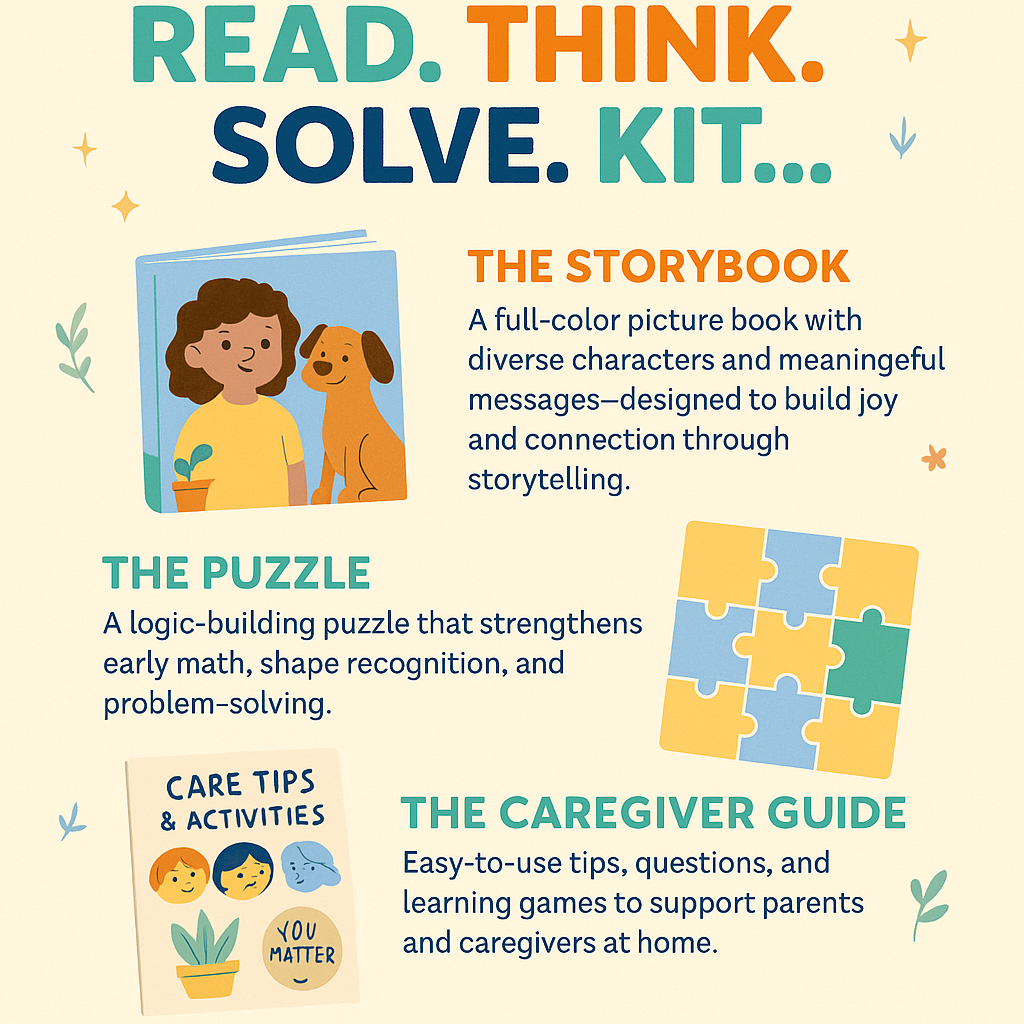
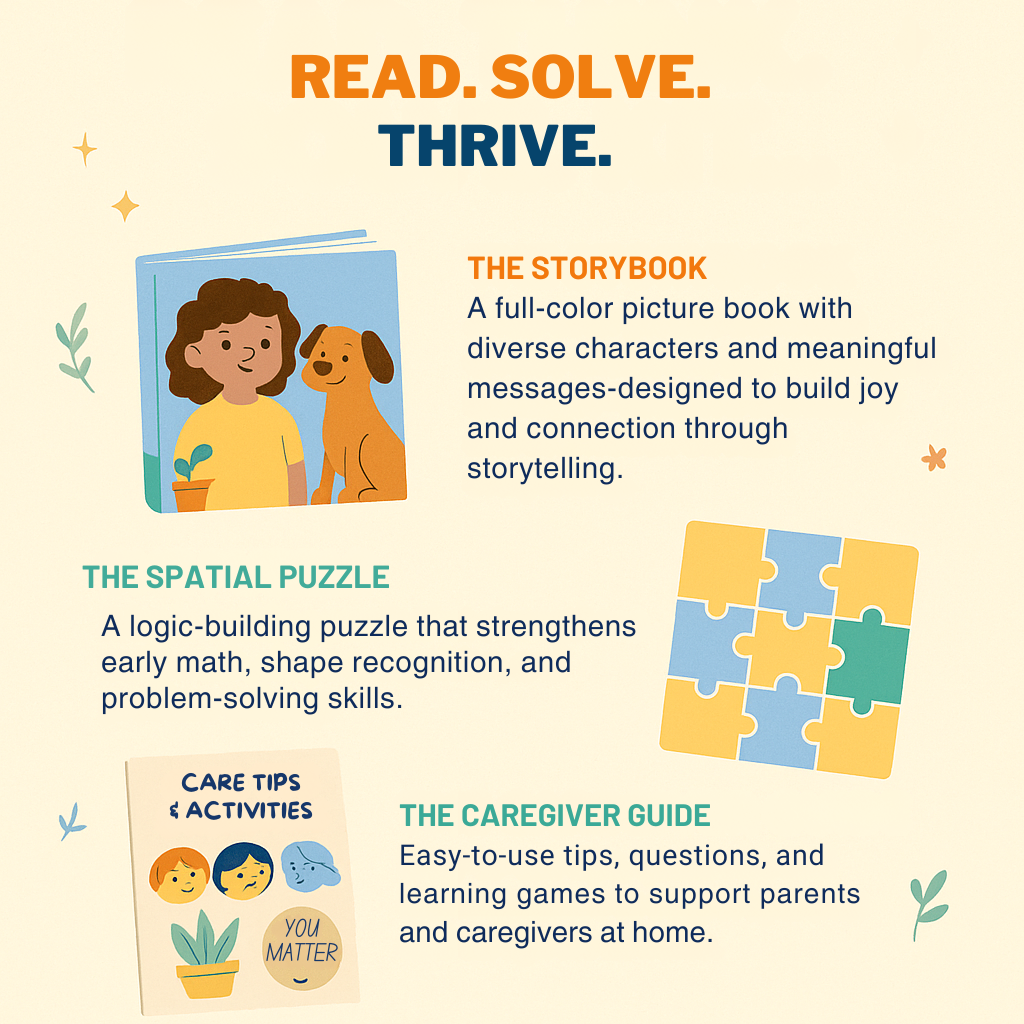
Update to images and text due to typos and update to subscription formatting

diff --git a/initiatives.html b/initiatives.html
@@ -35,11 +35,14 @@
     <div class="container">
         <h1>Current Initiatives</h1>
     
-            <p style="text-align: center;">Introducing: <em>Read. Think. Solve.</em>, an early literacy and critical thinking tool designed to close education gaps and encourage children to fall in love with reading through imagination, problem-solving and play.</p>
+            <p style="text-align: center;">Introducing: <em>Read.Solve.Thrive.</em>, an early literacy and critical thinking tool designed to close education gaps and encourage children to fall in love with reading through imagination, problem-solving and play.</p>
             <p style="text-align: center;">Each kit includes a full-color book featuring an inspiring and engaging story; a puzzle to strenghten and sharpen early math, shape recognition and problem-solving skills; and a companion guide to encourage parents and caregivers to join in and track their reader's progress.</p>
             <a href="donate.html">
-                <img src="RST-kit-image.png" alt="graphic describing the Read. Think. Solve. program, featuring an image of an example book, puzzle and caregiver guide" class="kit-image">
+                <img src="RST-kit-image.png" alt="graphic describing the Read.Think.Solve. program, featuring an image of an example book, puzzle and caregiver guide" class="kit-image">
                 </a>
+            <a href="donate.html">
+                <img src="RST-pilot-image.png" alt="a young boy smiling and holding a Read.Think.Solve book and completed puzzle" class="pilot-image">
+            </a>
         <hr>
 
         <h2>Upcoming Initiatives</h2>

diff --git a/about.html b/about.html
@@ -41,7 +41,7 @@
         <hr>
     
         <h2>Our Mission</h2>
-        <p style="text-align: center;">As part of our mission, we launched <em>Read. Solve. Thrive.</em>, a nationally focused literacy and critical thinking initiative designed to close early education gaps in underserved communities. Through multimedia literacy kits, public education campaigns, and community-based programming, we aim to help every child unlock their full intellectual potential.
+        <p style="text-align: center;">As part of our mission, we launched <em>Read.Solve.Thrive.</em>, a nationally focused literacy and critical thinking initiative designed to close early education gaps in underserved communities. Through multimedia literacy kits, public education campaigns, and community-based programming, we aim to help every child unlock their full intellectual potential.
         </p>
         <p style="text-align: center;">Looking ahead, <abbr title="Lineage Media Group">LMG</abbr> is expanding its impact through new initiatives, including independent journalism training workshops, oral history projects, and civic storytelling programs. Our vision is to tell the stories of our past, document the realities of our present, and preserve the truth for future generations—ensuring our people remain seen, heard, and empowered in every space that shapes our future.
         </p>

diff --git a/donate.html b/donate.html
@@ -33,7 +33,7 @@
     </header>    
         
     <div class="container"><h1>Support Our Mission</h1>
-            <p style="text-align: center;">Lineage Media Group is now accepting donations and community investments to help power our growing media, education, and cultural preservation initiatives. Your contribution directly supports programs like <em>Read. Solve. Thrive.</em>, our upcoming independent journalism training workshops, and the creation of accessible media tools that uplift and empower Black American communities.</p>
+            <p style="text-align: center;">Lineage Media Group is now accepting donations and community investments to help power our growing media, education, and cultural preservation initiatives. Your contribution directly supports programs like <em>Read.Solve.Thrive.</em>, our upcoming independent journalism training workshops, and the creation of accessible media tools that uplift and empower Black American communities.</p>
             
             <p style="text-align: center;">As a registered 501(c)(3) nonprofit, all donations to <abbr title="Lineage Media Group">LMG</abbr> are fully tax-deductible. Every dollar you give is an investment in truth, literacy, and legacy — and helps ensure our stories, voices, and futures are preserved and protected for generations to come.</p>
         

diff --git a/index.html b/index.html
@@ -45,10 +45,10 @@
     
         <hr>
 
-        <h3 style="text-align: center;">Featured Program: Read. Solve. Thrive.</h3>
+        <h3 style="text-align: center;">Featured Program: <em>Read.Solve.Thrive.</em></h3>
             <a href="initiatives.html">
                 <img src="RST-LV-image.png" alt="a boy holding a book staring up at the Welcome to Las Vegas sign in awe" class="featured-image"></a>
-            <p style="text-align: center;"><em>Read. Solve. Thrive.</em> is our nationally focused early literacy and critical thinking campaign. Through multimedia puzzle kits, culturally relevant books, and engaging visual content, we are changing the way underserved children experience learning.</p>
+            <p style="text-align: center;"><em>Read.Solve.Thrive.</em> is our nationally focused early literacy and critical thinking campaign. Through multimedia puzzle kits, culturally relevant books, and engaging visual content, we are changing the way underserved children experience learning.</p>
             <p style="text-align: center;"><q>When we help a child unlock a love for reading, we unlock their future.</q></p>
         </div>
 

diff --git a/style.css b/style.css
@@ -47,8 +47,6 @@ body {
     color: black;
 }
 
-
-
 /* --- NEW: Hamburger Icon Styles (Hidden by default on Desktop) --- */
 /* Place these rules below your existing desktop navigation styles */
 .hamburger {
@@ -216,6 +214,17 @@ q {
     padding-bottom: 20px;
 }
 
+/* Styling for pilot image(s) */
+.pilot-image {
+    display: block;
+    margin-left: auto;
+    margin-right: auto;
+    width: 400px;
+    height: 400px;
+    padding-top: 20px;
+    padding-bottom: 20px;
+}
+
 /* Styling for featured image(s) */
 .featured-image {
     display: block;
@@ -243,7 +252,7 @@ form label {
 form input[type="text"],
 form input[type="email"],
 #age {
-    width: 24ch; /* Adjust this pixel value as needed */
+    width: 28ch; /* Adjust this pixel value as needed */
     /* You might also add padding if you want more internal space */
     padding: 8px 10px; /* Example: adds a little more room inside the field */
 }

diff --git a/contact.html b/contact.html
@@ -49,7 +49,7 @@
                     <input type="email" id="e-mail" name="e-mail" placeholder="example@email.com" required><br>
                 </p>
                 <p>
-                    <label for="message"></label>Message: <strong><span aria-label="required">*</span></strong></label>
+                    <label for="message"></label><strong>Message: </strong><strong><span aria-label="required">*</span></strong></label>
                     <textarea id="message" name="message" cols="20" rows="10" placeholder="Enter your message here..." required></textarea>
                 </p>
                 
